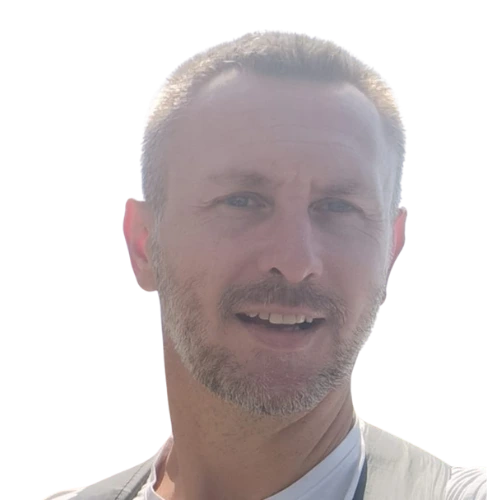
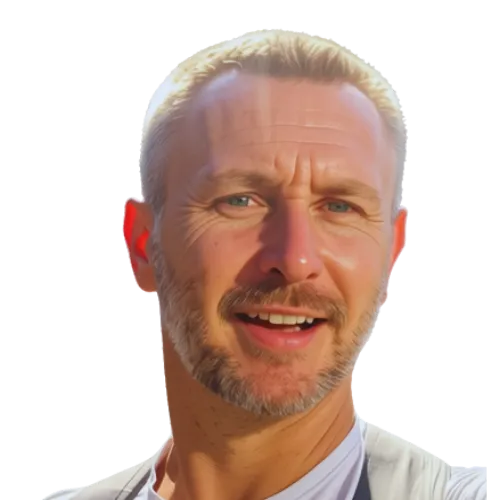
v bump

diff --git a/src/app/app.ts b/src/app/app.ts
@@ -177,7 +177,7 @@ const STAFF: StaffMember[] = [
     whatsapp: '38761803119',
     roleBs: 'Presvlačenje siceva, volana i plafona',
     roleEn: 'Upholstery Specialist',
-    image: 'assets/staff/4.webp',
+    image: 'assets/staff/4.webp?v=2',
   },
 ];
 
@@ -273,7 +273,7 @@ const SERVICES: Service[] = [
         roleEn: 'Upholstery Specialist',
         phone: '+387 61 803 119',
         whatsapp: '38761803119',
-        image: 'assets/staff/4.webp',
+        image: 'assets/staff/4.webp?v=2',
       },
     ],
   },
